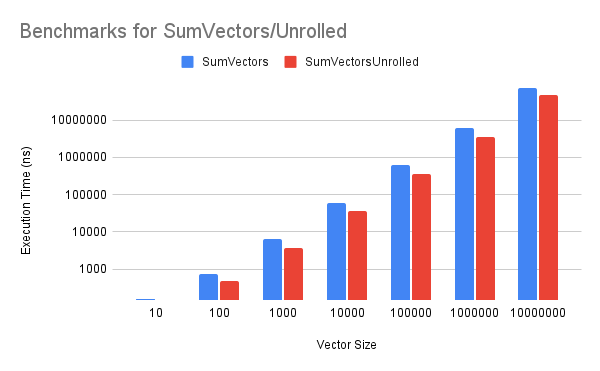
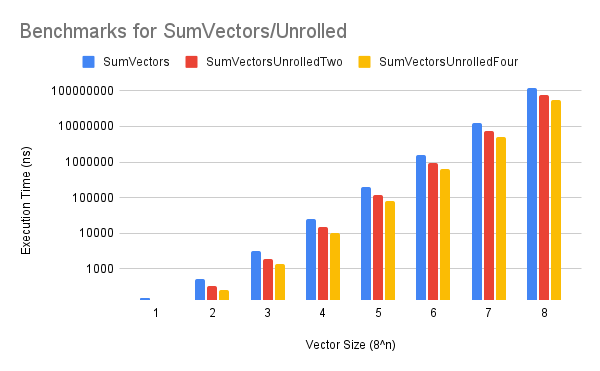
Completed LoopUnrolling benchmark documentation, removed unnecessary comments. Corrected SIMD results. Replaced SumVectors image. Included base template for root README.md.

diff --git a/examples/loop_unrolling/loop_unrolling.h b/examples/loop_unrolling/loop_unrolling.h
@@ -26,7 +26,6 @@ public:
         vector<int> z(size);
 
         for (auto i = 0; i < size / 2; i += 2) {
-            // UNROLL_FACTOR lines of loop unrolling
             z[i] = x[i] + y[i];
             z[i+1] = x[i+1] + y[i+1];
         }
@@ -40,7 +39,6 @@ public:
         vector<int> z(size);
 
         for (auto i = 0; i < size / 4; i += 4) {
-            // UNROLL_FACTOR lines of loop unrolling
             z[i] = x[i] + y[i];
             z[i+1] = x[i+1] + y[i+1];
             z[i+2] = x[i+2] + y[i+2];

diff --git a/docs/loop_unrolling.md b/docs/loop_unrolling.md
@@ -12,12 +12,15 @@ The example below shows a function that takes two `int` vectors, `x` and `y`, of
 
 ```c++
 static vector<int> SumVectors(const vector<int>& x, const vector<int>& y, int size) {
-    vector<int> z;
-    z.reserve(size);
+
+    vector<int> z(size);
+    
     for (auto i = 0; i < size; i++) {
         z[i] = x[i] + y[i];
     }
+    
     return z;
+
 }
 ```
 
@@ -33,13 +36,16 @@ The example used earlier can be rewritten as follows, with a loop unrolling fact
 
 ```c++
 static vector<int> SumVectorsUnrolled(const vector<int>& x, const vector<int>& y, int size) {
-    vector<int> z;
-    z.reserve(size);
+    
+    vector<int> z(size);
+
     for (auto i = 0; i < size / 2; i += 2) {
         z[i] = x[i] + y[i];
         z[i+1] = x[i+1] + y[i+1];
     }
+    
     return z;
+    
 };
 ```
 
@@ -47,22 +53,113 @@ The structure of the loop has been changed so that `i` is incremented by 2 inste
 
 This example is simple because of the assumed precondition that `size` is divisible by 2. Without this guarantee, another check may need to be performed (i.e. `size` is odd) to perform a final iteration of the loop after the main loop shown above.
 
-As with many other optimisations (see inlining), loop unrolling is a space-time tradeoff, but excessively using the technique may actually degrade performance. Naturally, larger loop unrolling factors can be used to reduce the number of branches, but the larger blocks of code may cause thrashing if the program code doesn't fit into the instruction cache. The programmer must carefully tune the loop unrolling factor by profiling and benchmarking their code.
+As with many other optimisations (see inlining), loop unrolling is a space-time tradeoff, but excessively using the technique may actually degrade performance. 
+
+This is the generated assembly of the body of the for-loop in `SumVectors`:
+
+```asm
+.L8:
+        mov     eax, DWORD PTR [rbp-20]
+        movsx   rdx, eax
+        mov     rax, QWORD PTR [rbp-48]
+        mov     rsi, rdx
+        mov     rdi, rax
+        call    std::vector<int, std::allocator<int> >::operator[](unsigned long) const
+        mov     ebx, DWORD PTR [rax]
+        mov     eax, DWORD PTR [rbp-20]
+        movsx   rdx, eax
+        mov     rax, QWORD PTR [rbp-56]
+        mov     rsi, rdx
+        mov     rdi, rax
+        call    std::vector<int, std::allocator<int> >::operator[](unsigned long) const
+        mov     eax, DWORD PTR [rax]
+        add     ebx, eax
+        mov     eax, DWORD PTR [rbp-20]
+        movsx   rdx, eax
+        mov     rax, QWORD PTR [rbp-40]
+        mov     rsi, rdx
+        mov     rdi, rax
+        call    std::vector<int, std::allocator<int> >::operator[](unsigned long)
+        mov     DWORD PTR [rax], ebx
+        add     DWORD PTR [rbp-20], 1
+```
+
+And now the example with an unrolling factor of 2:
+
+```asm
+.L8:
+        mov     eax, DWORD PTR [rbp-20]
+        movsx   rdx, eax
+        mov     rax, QWORD PTR [rbp-48]
+        mov     rsi, rdx
+        mov     rdi, rax
+        call    std::vector<int, std::allocator<int> >::operator[](unsigned long) const
+        mov     ebx, DWORD PTR [rax]
+        mov     eax, DWORD PTR [rbp-20]
+        movsx   rdx, eax
+        mov     rax, QWORD PTR [rbp-56]
+        mov     rsi, rdx
+        mov     rdi, rax
+        call    std::vector<int, std::allocator<int> >::operator[](unsigned long) const
+        mov     eax, DWORD PTR [rax]
+        add     ebx, eax
+        mov     eax, DWORD PTR [rbp-20]
+        movsx   rdx, eax
+        mov     rax, QWORD PTR [rbp-40]
+        mov     rsi, rdx
+        mov     rdi, rax
+        call    std::vector<int, std::allocator<int> >::operator[](unsigned long)
+        mov     DWORD PTR [rax], ebx
+        mov     eax, DWORD PTR [rbp-20]
+        add     eax, 1
+        movsx   rdx, eax
+        mov     rax, QWORD PTR [rbp-48]
+        mov     rsi, rdx
+        mov     rdi, rax
+        call    std::vector<int, std::allocator<int> >::operator[](unsigned long) const
+        mov     ebx, DWORD PTR [rax]
+        mov     eax, DWORD PTR [rbp-20]
+        add     eax, 1
+        movsx   rdx, eax
+        mov     rax, QWORD PTR [rbp-56]
+        mov     rsi, rdx
+        mov     rdi, rax
+        call    std::vector<int, std::allocator<int> >::operator[](unsigned long) const
+        mov     eax, DWORD PTR [rax]
+        add     ebx, eax
+        mov     eax, DWORD PTR [rbp-20]
+        add     eax, 1
+        movsx   rdx, eax
+        mov     rax, QWORD PTR [rbp-40]
+        mov     rsi, rdx
+        mov     rdi, rax
+        call    std::vector<int, std::allocator<int> >::operator[](unsigned long)
+        mov     DWORD PTR [rax], ebx
+        add     DWORD PTR [rbp-20], 2
+```
+
+The assembly produced has almost doubled in size. The Benchmarking section of this document will demonstrate the performance impact of implementing this optimisation.
+
+Naturally, larger loop unrolling factors can be used to reduce the number of branches, but the larger blocks of code may cause thrashing if the program code doesn't fit into the instruction cache. The programmer must carefully tune the loop unrolling factor by profiling and benchmarking their code.
 
 # Benchmark Results
 
-| Vector Size | SumVectors Execution Time (ns) | SumVectorsUnrolled Execution Time (ns) |
-|-------------|--------------------------------|----------------------------------------|
-|          10 |                            159 |                                    143 |
-|         100 |                            720 |                                    476 |
-|        1000 |                           6233 |                                   3693 |
-|       10000 |                          60547 |                                  36349 |
-|      100000 |                         609585 |                                 359499 |
-|     1000000 |                        6084840 |                                3581000 |
-|    10000000 |                       72235795 |                               47303487 |
-|    10000000 |                       32828489 |                               27445521 |
-
 ![SumVectors Benchmark Results](./images/SumVectors.png)
+
+| Vector Size (8^n) | SumVectors Execution Time (ns) | SumVectorsUnrolledTwo Execution Time (ns) | SumVectorsUnrolledFour Execution Time (ns) |
+|-------------------|--------------------------------|-------------------------------------------|--------------------------------------------|
+|                 1 |                            148 |                                       128 |                                        129 |
+|                 2 |                            501 |                                       333 |                                        259 |
+|                 3 |                           3204 |                                      1905 |                                       1357 |
+|                 4 |                          24682 |                                     14468 |                                       9843 |
+|                 5 |                         197597 |                                    115575 |                                      78331 |
+|                 6 |                        1584229 |                                    954879 |                                     626115 |
+|                 7 |                       12884701 |                                   7495871 |                                    5089184 |
+|                 8 |                      118495092 |                                  76134393 |                                   56429343 |
+
+An unrolled implementation demonstrates a steady performance increase of about 40% when using a loop unrolling factor of 2, and 60 when using an unrolling factor of 4. This shows a clear performance boost for medium/large-sized streams of data, though the benefits aren't as pronounced for smaller vectors (and in the case of using a factor of 4, we see slightly worse performance than the factor of 2).
+
+It's worth reiterating that these benchmarks and functions exploited the fact that the size of the vectors were divisible by 2 and 4. Without this precondition, extra guards could be set up after the core loop to catch these extra cases. Omitting these guards saves the functions a few branches, which saves microscopic amounts of time. The programmer should include these based on the preconditions of the data/vector being processed - functional correctness is usually more important than performance.
 
 # Use cases
 

diff --git a/docs/simd_instructions.md b/docs/simd_instructions.md
@@ -35,18 +35,18 @@ static __m256 MultiplyAddVectorized(__m256 a, __m256 b, __m256 c) {
 
 # Benchmark Results
 
-| Array Size | BinarySearch Execution Time (ns) | BinarySearchPrefetched Execution Time (ns) |
-|------------|----------------------------------|--------------------------------------------|
-|          1 |                             10.7 |                                       11.7 |
-|         10 |                             31.8 |                                       32.5 |
-|        100 |                               53 |                                       55.5 |
-|       1000 |                             76.9 |                                       83.6 |
-|      10000 |                              108 |                                        114 |
-|     100000 |                              143 |                                        146 |
-|    1000000 |                              190 |                                        181 |
-|   10000000 |                              324 |                                        292 |
-|  100000000 |                              506 |                                        450 |
-| 1000000000 |                              745 |                                        653 |
+| Iterations Performed | MultiplyAddScalar Execution Time (ns) | MultiplyAddVectorized Execution Time (ns) |
+|----------------------|---------------------------------------|-------------------------------------------|
+|                    1 |                                  6.99 |                                       1.1 |
+|                   10 |                                  68.6 |                                       3.3 |
+|                  100 |                                   679 |                                      29.8 |
+|                 1000 |                                  6793 |                                       227 |
+|                10000 |                                 67856 |                                      2273 |
+|               100000 |                                678666 |                                     22019 |
+|              1000000 |                               6845885 |                                    218869 |
+|             10000000 |                              69030639 |                                   2186023 |
+|            100000000 |                                   506 |                                       450 |
+|           1000000000 |                                   745 |                                       653 |
 
 ![SumVectors Benchmark Results](./images/SumVectors.png)
 

diff --git a/docs/inlining.md b/docs/inlining.md
@@ -13,9 +13,7 @@ However, function calls within a program are expensive. This is a brief overview
 - The stack frame is popped from the stack
 - The function returns to its return address
 
-In lower-level/assembly terms, the call for the destination function can also cause the instruction pipeline to be flushed, causing a frontend stall. Repeatedly calling small functions means that a lot of overhead is generated for little work done.
-
-This could be avoided by the programmer by copying the code into the function call site, but this contradicts the software engineering philosophy of creating modular, well-organised code.
+In lower-level/assembly terms, the call for the destination function can also cause the instruction pipeline to be flushed, causing a frontend stall. Repeatedly calling small functions means that a lot of overhead is generated for little work done. This could be avoided by the programmer by copying the code into the function call site, but this contradicts the software engineering philosophy of creating modular, well-organised code.
 
 # Description
 
@@ -105,6 +103,8 @@ These are a few of the main cases - several more subtle restrictions can be foun
 
 # Benchmark Results
 
+![Cube Benchmark Results](./images/Cube.png)
+
 | Iterations Performed | Cube Execution Time (ns) | CubeInlined Execution Time (ns) |
 |----------------------|--------------------------|---------------------------------|
 |                    1 |                     6.06 |                            5.22 |
@@ -116,7 +116,7 @@ These are a few of the main cases - several more subtle restrictions can be foun
 |              1000000 |                  3266517 |                         2755897 |
 |             10000000 |                 32828489 |                        27445521 |
 
-![Cube Benchmark Results](./images/Cube.png)
+The `Cube` function was tested against the inlined version, scaling the number of times the function was performed in a for loop by 10 each time. The results show a noticeable improvement using the inlined version of the function, with approximately 15% increased performance throughout each test.
 
 # Use Cases
 

diff --git a/README.md b/README.md
@@ -1,2 +1,46 @@
-# low-latency-microbenchmarks
-A repository benchmarking low latency techniques 
+# Programming Optimisations and Techniques for Low-Latency Applications
+
+A repository demonstrating a subset of techniques designed to increasing the performance of applications, particularly those that should be optimised for low-latency.
+
+## Index
+
+The following table is a directory of the optimisations included and their corresponding benchmarks. More detail about the benchmarking results can be found in the Documentation, also provided in the table.
+
+| Optimisation      | Documentation                     | Benchmarks                                       |
+|-------------------|-----------------------------------|--------------------------------------------------|
+| Inlining          | [Link](docs/inlining.md)          | [Link](examples/inlining/benchmark.cpp)          |
+| Loop Unrolling    | [Link](docs/loop_unrolling.md)    | [Link](examples/loop_unrolling/benchmark.cpp)    |
+| Predication       | [Link](docs/predication.md)       | [Link](examples/predication/benchmark.cpp)       |
+| Prefetching       | [Link](docs/prefetching.md)       | [Link](examples/prefetching/benchmark.cpp)       |
+| SIMD Instructions | [Link](docs/simd_instructions.md) | [Link](examples/simd_instructions/benchmark.cpp) |
+
+## Benchmarks
+
+### Overview
+
+Benchmarks were collected using Imperial College London Department of Computing's undergraduate lab machines, with an Intel Core i7-8700 (3.20GHz) and 16GB of RAM, using g++ `9.4.0`.
+
+### Requirements
+
+- CMake, Version 3.16+
+- GNU's g++ compiler
+
+### Running Benchmarks Locally
+
+Follow these instructions to rerun the benchmarks in the `examples` directory:
+
+```
+// Navigate to the directory of the optimisation
+cd examples/{OPTIMISATION}
+
+// Create a build directory
+mkdir build
+cd build
+
+// Create the benchmark executable
+cmake -DCMAKE_BUILD_TYPE=Release
+make
+
+// Run the benchmark
+./{OPTIMISATION}Benchmarks
+```
